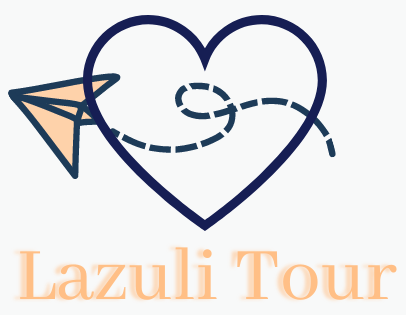
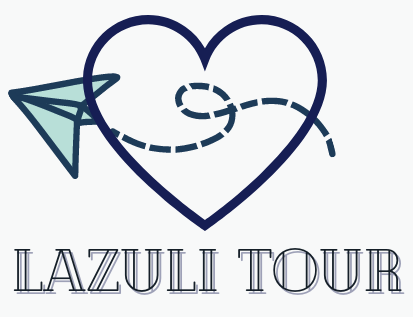
retornando a paleta de cores para o azul

Changed region(s): [[0.0296, 0.0286, 0.8276, 0.7429], [0.0296, 0.7714, 0.532, 0.9714], [0.5616, 0.7714, 0.9754, 0.9714]]

diff --git a/index.html b/index.html
@@ -14,7 +14,7 @@
               <img src="img/Lazuli Tour.png" alt="Lazuli" width="180px" height="120px"></a>
             
         <button class="navbar-toggler" type="button" data-toggle="collapse" data-target="#navbarSupportedContent" aria-controls="navbarSupportedContent" aria-expanded="true" aria-label="Abrir Navegação">
-            <span class="navbar-toggler-icon"></span>
+          <span class="navbar-toggler-icon"></span>
         </button> <!--Botão para o menu em modo responsivo-->
             
         <div class="collapse navbar-collapse h4" style="text-align: right" id="navbarSupportedContent">
@@ -41,16 +41,16 @@
         </nav>
       </header>
         <section class="container-fluid">
-        <div class="row text-dark" style="background-color: rgb(243, 240, 215);">
+        <div class="row text-dark bg-light">
         <div class="col-lg-7 p-0">
         <div id="carouselCidades" class="carousel slide" data-bs-ride="carousel">
-        <div class="carousel-inner box-shadow" style="border-radius: 10px;">
+        <div class="carousel-inner box-shadow" style="border-radius: 5px;">
         <div class="carousel-item active">
               <img class="d-block w-100" src="img/california.jpg" alt="Califórnia">
-        </div>
         <div class="carousel-caption">
-              <h3 class="display-4">Califórnia</h3>
+        <h3 class="display-4">Califórnia</h3>
         </div>
+        </div>        
         <div class="carousel-item">
               <img src="img/dublin.jpg" class="d-block w-100" alt="Dublin">                        
         <div class="carousel-caption"> <h3 class="display-4">Dublin</h3> 
@@ -75,26 +75,26 @@
         </div>
         </div>
 
-        <div class="col-lg-5 py-5 box-shadow" style="border-radius: 10px;"> 
+        <div class="col-lg-5 py-5 box-shadow" style="border-radius: 5px;"> 
           <h1 class="display-4">Realize a viagem dos seus sonhos</h1>
-            <p class="lead my-5">Sua viagem será melhor com a Lazuli Tour. Mais de 5 mil excursões concluídas com sucesso.</p>
+            <p class="lead my-5">Sua viagem será melhor com a Lazuli Tour. Temos mais de 5 mil excursões concluídas com sucesso.</p>
             <p class="lead p-0">Inscreva-se para receber nossos avisos e promoções:</p>
         <form action="">
         <div class="input-group input-group-lg my-4">
-          <input type="text" class="form-control" placeholder="E-mail" aria-label="E-mail" aria-describedby="button-addon2">
+          <input type="text" style="border: solid 3px rgb(184, 223, 216);" class="form-control" placeholder="E-mail" aria-label="E-mail" aria-describedby="button-addon2">
           <span class="input-group-append input-group-lg">
-          <button class="btn" style="background-color: rgb(255, 191, 134);" type="button" id="button-addon2">Inscreva-se</button>
+          <button class="btn" style="border: solid 3px rgb(184, 223, 216); background-color: rgb(184, 223, 216);" type="button" id="button-addon2">Inscreva-se</button>
           </span>
         </div>
         </form>
         </div>
         </section>
 
-        <section class="py-5 bg-light">
+        <section class="py-3 bg-light">
           <div class="container d-block text-center">
             <div class="my-5">
             <span class="h4 d-block">TUDO DE MELHOR PARA VOCÊ</span>
-            <h2 class="display-4" style="color: rgb(255, 191, 134);">Aproveite as vantagens</h2>
+            <h2 class="display-4 text-dark" >Aproveite as vantagens</h2>
             </div>
 
           <div class="row">
@@ -135,7 +135,7 @@
             </div> 
           </div>
 
-            <a href="planos.html" class="btn btn-lg mt-4" style="background-color: rgb(255, 191, 134);">Faça agora seu orçamento</a>
+            <a href="planos.html" class="btn btn-lg mt-4" style="border: 3px solid rgb(184, 223, 216); background-color: rgb(184, 223, 216);">Faça agora seu orçamento</a>
 
           </div>
         </section>                                             
